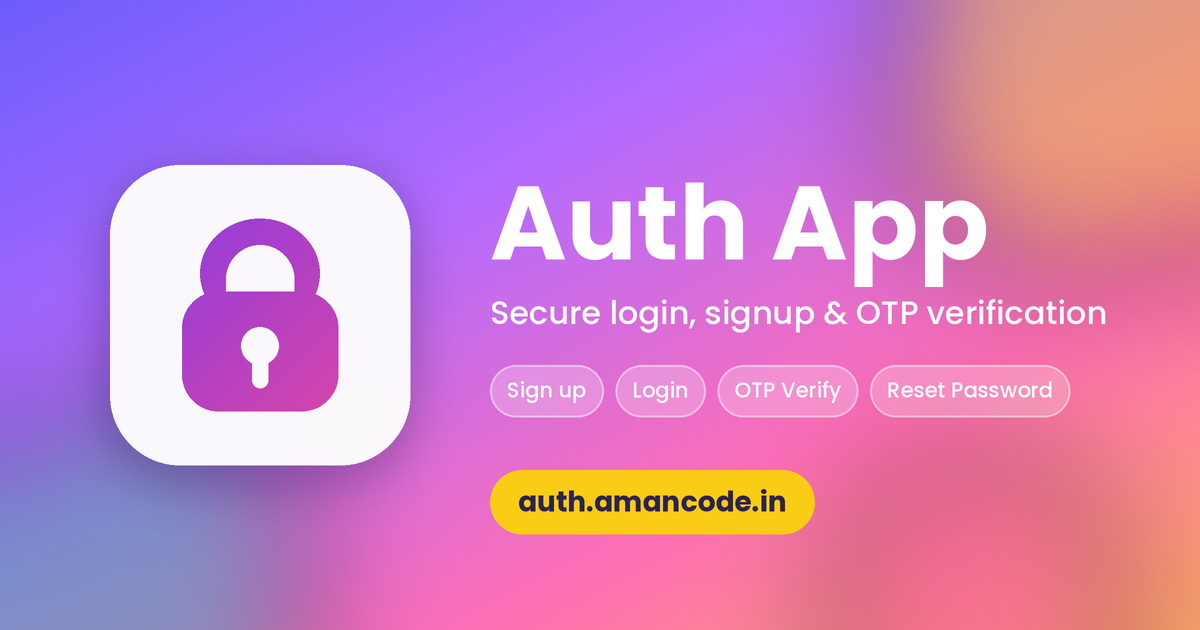
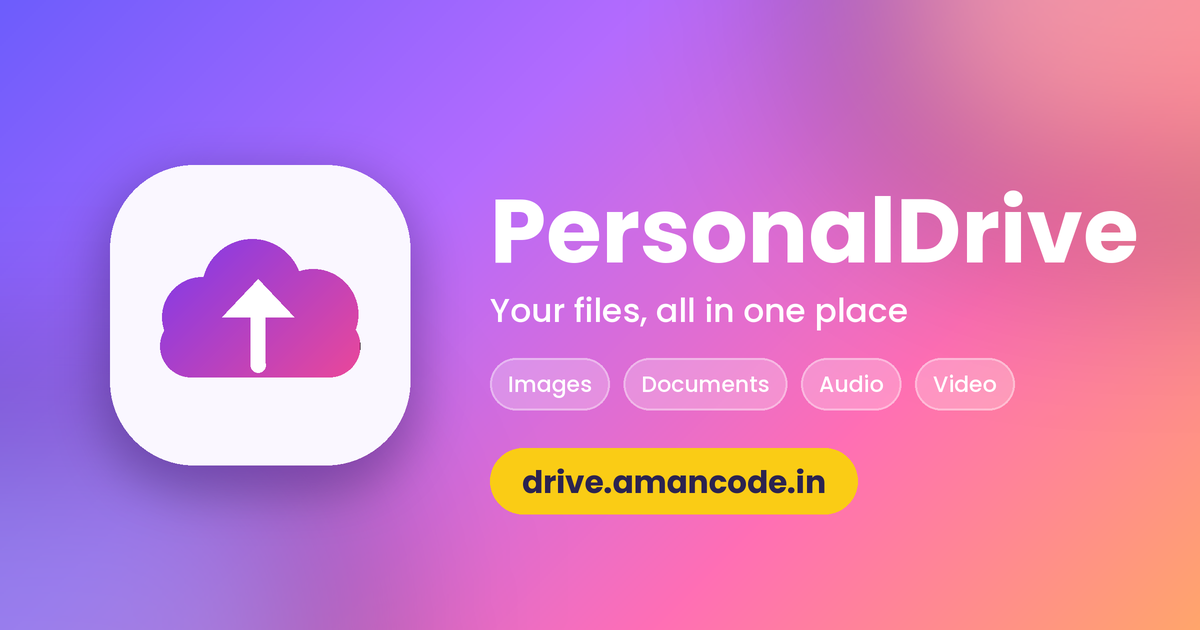
updated readme

diff --git a/frontend/index.html b/frontend/index.html
@@ -5,12 +5,12 @@
   <meta charset="UTF-8" />
   <meta name="viewport" content="width=device-width, initial-scale=1.0" />
 
-  <title>Auth App | Secure Login & Signup</title>
+  <title>PersonalDrive | Your Files, All in One Place</title>
   <meta name="description"
-    content="A secure authentication app with signup, login, OTP email verification and password reset." />
+    content="PersonalDrive is a private cloud drive. Sign up with email verification, then upload and manage your images, documents, audio and video from anywhere." />
   <meta name="author" content="Aman" />
   <meta name="robots" content="index, follow" />
-  <link rel="canonical" href="https://auth.amancode.in/" />
+  <link rel="canonical" href="https://drive.amancode.in/" />
 
   <!-- Browser UI color (mobile address bar) -->
   <meta name="theme-color" content="#7c3aed" />
@@ -20,18 +20,23 @@
 
   <!-- Open Graph (link previews on WhatsApp, LinkedIn, Facebook) -->
   <meta property="og:type" content="website" />
-  <meta property="og:site_name" content="Auth App" />
-  <meta property="og:title" content="Auth App | Secure Login & Signup" />
-  <meta property="og:description" content="Signup, login, OTP email verification and password reset, all in one app." />
-  <meta property="og:url" content="https://auth.amancode.in/" />
-  <meta property="og:image" content="https://auth.amancode.in/og-image.png" />
+  <meta property="og:site_name" content="PersonalDrive" />
+  <meta property="og:title" content="PersonalDrive | Your Files, All in One Place" />
+  <meta property="og:description"
+    content="A private cloud drive for your images, documents, audio and video. Upload, view and delete from anywhere." />
+  <meta property="og:url" content="https://drive.amancode.in/" />
+  <meta property="og:image" content="https://drive.amancode.in/og-image.png" />
+  <meta property="og:image:width" content="1200" />
+  <meta property="og:image:height" content="630" />
+  <meta property="og:image:alt" content="PersonalDrive, a private cloud drive at drive.amancode.in" />
 
   <!-- Twitter / X card -->
   <meta name="twitter:card" content="summary_large_image" />
-  <meta name="twitter:title" content="Auth App | Secure Login & Signup" />
+  <meta name="twitter:title" content="PersonalDrive | Your Files, All in One Place" />
   <meta name="twitter:description"
-    content="Signup, login, OTP email verification and password reset, all in one app." />
-  <meta name="twitter:image" content="https://auth.amancode.in/og-image.png" />
+    content="A private cloud drive for your images, documents, audio and video. Upload, view and delete from anywhere." />
+  <meta name="twitter:image" content="https://drive.amancode.in/og-image.png" />
+  <meta name="twitter:image:alt" content="PersonalDrive, a private cloud drive at drive.amancode.in" />
 </head>
 
 <body>

diff --git a/Readme.md b/Readme.md
@@ -1,1 +1,180 @@
-# Cloud Drive 
+# PersonalDrive
+
+A personal cloud drive built with the MERN stack. Sign up with email OTP verification, upload your images, documents, audio and video, and manage them from anywhere. Every file is private to the account that uploaded it.
+
+**Live:** [https://drive.amancode.in](https://drive.amancode.in)
+
+## Features
+
+- **Email OTP signup**: new accounts must verify their email with a 6 digit code before they can log in.
+- **Login and logout** with a JWT stored in an `httpOnly` cookie (1 hour expiry).
+- **Forgot and reset password** through an emailed reset link. Resetting a password logs out every older session.
+- **Upload files**: single upload, or up to 5 files at once, 5 MB each. In a multi file upload, one failure does not stop the rest.
+- **File type validation** twice: first by the declared MIME type, then by sniffing the real file contents with `file-type`.
+- **My Files page** with a thumbnail grid, pagination (12 per page), open in a new tab, delete one file, or select many and delete them together.
+- **Private by design**: every file query is scoped to the logged in owner.
+- **Abuse protection**: per IP rate limits, per account OTP, reset and login attempt limits, a 60 second OTP resend cooldown, and OTPs that expire after 10 minutes with at most 5 tries.
+- **Security headers** with Helmet, bcrypt password hashing, and a CORS allowlist for the frontend origin.
+
+### Supported file types
+
+| Category | Formats |
+| --- | --- |
+| Images | PNG, JPEG, GIF, WebP, SVG |
+| Audio | MP3, WAV, OGG, AAC |
+| Video | MP4, WebM, AVI, MPEG |
+| Documents | PDF, DOC, DOCX, XLS, XLSX, PPT, PPTX |
+
+## Tech stack
+
+| Layer | Tools |
+| --- | --- |
+| Frontend | React 19, React Router 7, Vite, CSS Modules |
+| Backend | Node.js, Express 5 |
+| Database | MongoDB with Mongoose |
+| File storage | Cloudinary |
+| Email | Resend |
+| Auth | JWT, bcrypt, cookie-parser |
+| Upload handling | Multer, file-type |
+| Hardening | Helmet, express-rate-limit, CORS |
+
+## Project structure
+
+```
+cloud-drive-mern/
+├── backend/
+│   ├── config/         # MongoDB and Cloudinary setup
+│   ├── controller/     # user.js (auth flows), file.js (upload, list, delete)
+│   ├── middleware/     # auth check, multer, rate limits, error handler
+│   ├── model/          # User, Otp, File schemas
+│   ├── router/         # /user, /file and static routes
+│   ├── service/        # JWT, password hashing, OTP and token generation, mailer
+│   ├── localUploads/   # temporary folder, files are removed after upload
+│   └── index.js        # server entry point
+└── frontend/
+    ├── public/         # favicon and Open Graph image
+    ├── src/
+    │   ├── Component/  # Signup, Login, VerifyOtp, ForgotPass, ResetPass,
+    │   │               # Upload, Files, HomePage, Navbar, route guards
+    │   ├── config.js   # reads the backend URL from the environment
+    │   └── App.jsx     # routes
+    ├── index.html
+    └── vercel.json     # SPA rewrite for Vercel
+```
+
+## Getting started
+
+### Prerequisites
+
+- Node.js 20.19 or newer (required by Vite 8)
+- A MongoDB database (local or [Atlas](https://www.mongodb.com/atlas))
+- A [Cloudinary](https://cloudinary.com) account
+- A [Resend](https://resend.com) account with a verified sending domain
+
+### 1. Clone the repo
+
+```bash
+git clone https://github.com/Aman-20/cloud-drive-mern.git
+cd cloud-drive-mern
+```
+
+### 2. Set up the backend
+
+```bash
+cd backend
+npm install
+```
+
+Create `backend/.env`:
+
+```env
+PORT=3000
+MONGO_URL=mongodb+srv://<user>:<password>@<cluster>/?retryWrites=true&w=majority
+JWT_SECRET=replace_with_a_long_random_string
+FRONTEND_URL=http://localhost:5173
+
+CLOUDINARY_CLOUD_NAME=your_cloud_name
+CLOUDINARY_API_KEY=your_api_key
+CLOUDINARY_API_SECRET=your_api_secret
+
+RESEND_API_KEY=re_xxxxxxxxxxxx
+EMAIL_FROM=PersonalDrive <no-reply@yourdomain.com>
+```
+
+Start the server:
+
+```bash
+npm start
+```
+
+The API runs on `http://localhost:3000`. The database name used is `dashboard`.
+
+### 3. Set up the frontend
+
+```bash
+cd ../frontend
+npm install
+```
+
+`frontend/.env` should point at the backend:
+
+```env
+VITE_BACKEND_URL=http://localhost:3000
+```
+
+Start the dev server:
+
+```bash
+npm run dev
+```
+
+Open `http://localhost:5173`.
+
+### Running locally over HTTP
+
+The auth cookie is set with `secure: true` and `sameSite: "none"`, which is what you need when the frontend and backend live on different domains in production. Browsers treat `localhost` as a secure context, so this works in Chrome and Firefox, but Safari may refuse the cookie over plain HTTP. If that happens, switch the cookie options in `backend/controller/user.js` to `secure: false` and `sameSite: "lax"` for local development only. The original values are left in comments next to each option.
+
+## API reference
+
+All file routes require the auth cookie. Responses are JSON shaped like `{ success, msg, ... }`.
+
+### Auth, `/user`
+
+| Method | Route | Description | Rate limit |
+| --- | --- | --- | --- |
+| GET | `/user/me` | Current logged in user | none |
+| POST | `/user/signup` | Create an account and email an OTP | 10 per hour |
+| POST | `/user/verify-otp` | Verify the OTP and log in | 20 per 15 min |
+| POST | `/user/resend-otp` | Send a new OTP | 10 per hour |
+| POST | `/user/login` | Log in with email and password | 20 per 15 min |
+| POST | `/user/logout` | Clear the auth cookie | none |
+| POST | `/user/forgot-password` | Email a reset link | 10 per hour |
+| POST | `/user/reset-password` | Set a new password with the token | 20 per 15 min |
+
+### Files, `/file`
+
+| Method | Route | Description |
+| --- | --- | --- |
+| POST | `/file/upload` | Upload one file (form field `avatar`) |
+| POST | `/file/upload-multiple` | Upload up to 5 files (form field `avatar`) |
+| GET | `/file/my-files?page=1&limit=20&type=image` | List your files, newest first. `limit` is capped at 100, `type` is `image`, `video` or `raw` |
+| DELETE | `/file/:id` | Delete one file from Cloudinary and the database |
+| POST | `/file/delete-multiple` | Delete up to 100 files, body `{ "ids": [...] }` |
+
+## How it works
+
+**Signup.** The password is hashed with bcrypt and the account is created unverified. A 6 digit OTP is stored in the `Otp` collection and emailed. Verifying the OTP marks the account verified and logs the user in. Unverified accounts cannot log in.
+
+**Uploads.** Multer writes the file to `backend/localUploads`, the real file type is checked, the file is pushed to Cloudinary under `clouddrive/<userId>`, and its metadata is saved in MongoDB. The temporary local file is always removed afterwards. If saving to the database fails, the Cloudinary copy is deleted so nothing is left orphaned.
+
+**Deletes.** Files are removed from Cloudinary first and from MongoDB second. Bulk delete groups files by Cloudinary resource type and reports partial failures with a `207` response.
+
+**Sessions.** The JWT lives in an `httpOnly` cookie. On every protected request the server also checks `passwordChangedAt`, so a token issued before a password reset is rejected.
+
+## Deployment
+
+The frontend includes a `vercel.json` that rewrites every route to `index.html`, so it deploys to Vercel as a static Vite app. Set `VITE_BACKEND_URL` in the project environment to your backend URL. The backend runs on any Node host (Render, Railway, a VPS). Set the environment variables listed above, and make sure `FRONTEND_URL` matches your frontend origin exactly, since it is used for both CORS and the reset password link.
+
+## Author
+
+Built by [Aman](https://github.com/Aman-20).
